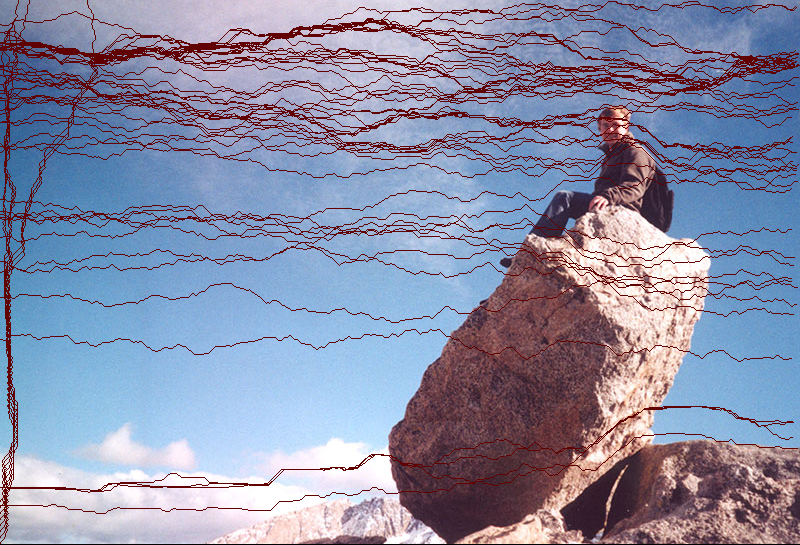
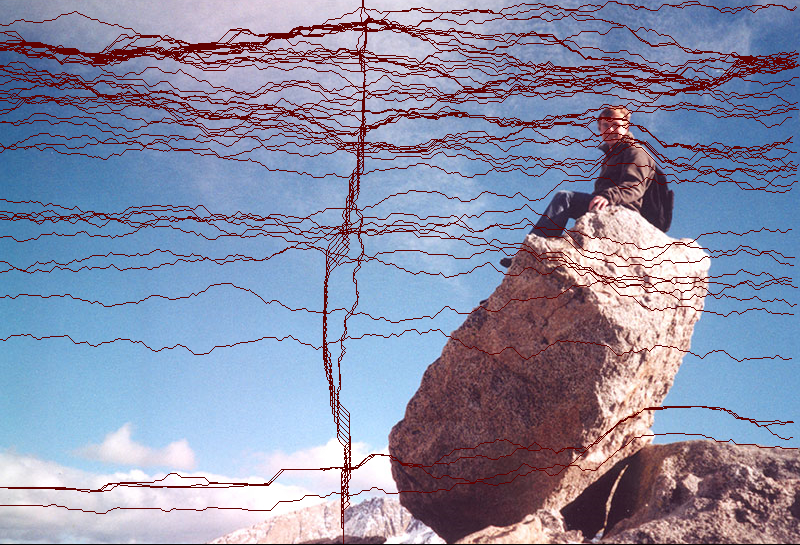
Correctifs seams verticaux

diff --git a/Exercice2/SeamCarving.java b/Exercice2/SeamCarving.java
@@ -163,10 +163,10 @@ public class SeamCarving{
                         }
                     }
                 }
-                if((aAllSeams[i][j][0]==0)&&(aAllSeams[i][j][1]==0)&&(aAllSeams[i][j+1][0]==0)&&(aAllSeams[i][j+1][1]==0)){
+                /*if((aAllSeams[i][j][0]==0)&&(aAllSeams[i][j][1]==0)&&(aAllSeams[i][j+1][0]==0)&&(aAllSeams[i][j+1][1]==0)){
                     j=aAllSeams[i].length;
                     System.out.println("FIN DU SEAM");
-                }
+                }*/
             }
             System.out.println("Traçage des Seams "+vPourcentageAvancement+"%");
         }
@@ -337,11 +337,6 @@ public class SeamCarving{
         plusFaibleCoutVertical();
         seamFinderVertical(aYmaxVertical,aXmaxVertical,-1);
         aAllSeams[aCompteurPourcentage]=aVerticalSeamTab;
-        /*System.out.println("SEAM VERTICAL :");
-        for (int i=0;i<aHauteurImage;i++){
-            System.out.print("["+aVerticalSeamTab[i][0]+","+aVerticalSeamTab[i][1]+"]");
-        }
-        System.out.println("");*/
     }
 
     static void seamFinderVertical(int pL, int pC, int pCompteur){
@@ -374,10 +369,13 @@ public class SeamCarving{
     }
 
     static void plusFaibleCoutVertical(){
-        int valeurMinV = IntStream.of(aCostTableVertical[aCostTableVertical.length-1]).min().getAsInt();
-        int[] vMax = new int[] {aCostTableVertical.length-1 , Arrays.asList(aCostTableVertical[aCostTableVertical.length-1]).indexOf(valeurMinV)};
-        aYmaxVertical = vMax[0];
-        aXmaxVertical = vMax[1]+1;
+       aXmaxVertical=0;
+        aYmaxVertical=aHauteurImage-1;
+        for (int i=0;i<=aLargeurImage-1;i++){
+            if(aCostTableVertical[aYmaxVertical][i]<aCostTableVertical[aYmaxVertical][aXmaxVertical]){
+                aXmaxVertical=i;
+            }
+        }
     }
 
     //###CALCUL HORIZONTAL###
@@ -427,12 +425,6 @@ public class SeamCarving{
         plusFaibleCoutHorizontal();
         seamFinderHorizontal(aYmaxHorizontal,aXmaxHorizontal,-1);
         aAllSeams[aCompteurPourcentage]=aHorizontalSeamTab;
-        /*System.out.println("\nSEAM HORIZONTAL :");
-        for (int i=0;i<aLargeurImage;i++){
-            System.out.print("["+aHorizontalSeamTab[i][0]+","+aHorizontalSeamTab[i][1]+"]");
-        }
-        System.out.println("");*/
-       // printTab(aCostTableHorizontal);
     }
 
     static void seamFinderHorizontal(int pL, int pC, int pCompteur){
